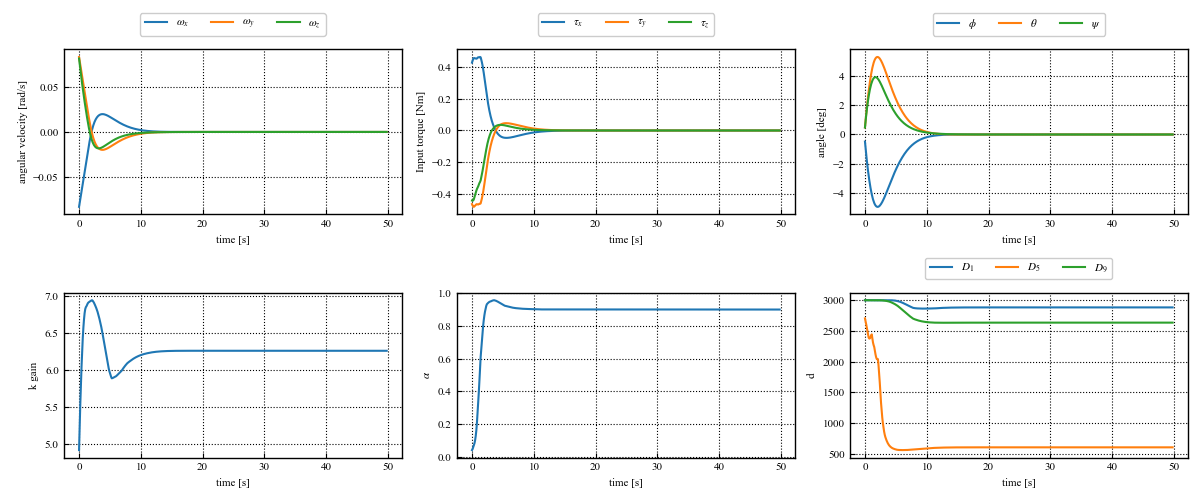
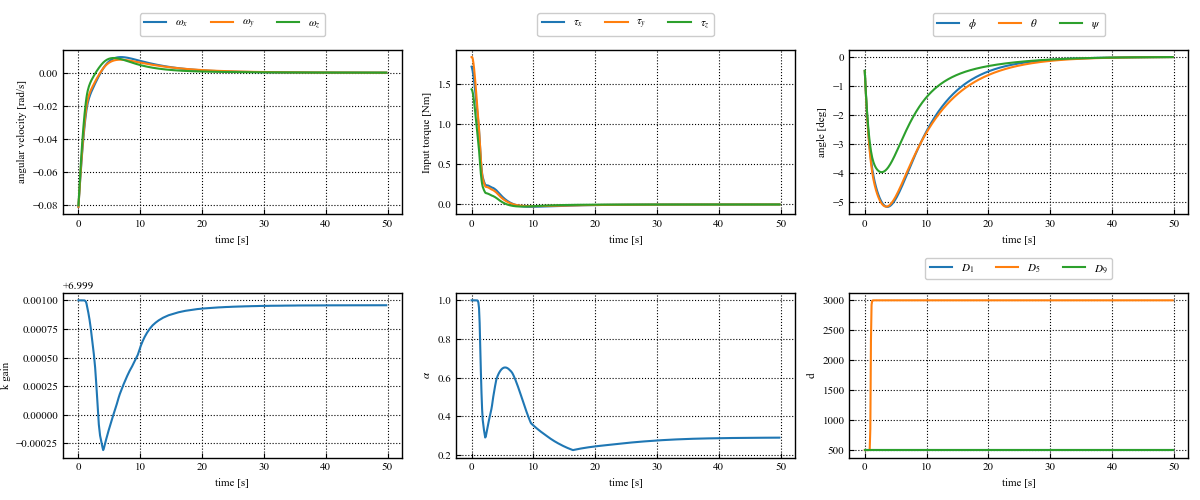
UPDATE: change reward

diff --git a/td3/environment.py b/td3/environment.py
@@ -280,17 +280,17 @@ class SatelliteContinuousEnv(gym.Env):
             self.r4 = self.action_rate_weight*(action_delta@action_delta)/self.dt
             reward = -(self.r1 + self.r2 + self.r3 + self.r4) 
             if max(abs(action)) > 0.5:
-                reward += -25 
+                reward += -100 
 
         elif self.steps_beyond_done is None:
             # epsiode just ended
             self.steps_beyond_done = 0
-            if bool(done_1):
+            if bool(done_3):
                 self.r1 = 0
                 self.r2 = 0
                 self.r3 = 0
                 self.r4 = 0
-                reward = -1
+                reward = 50
             else:
                 self.r1 = self.q_weight*((1-qe_new[0])**2+ qe_new[1:]@qe_new[1:])
                 self.r2 = self.w_weight*omega_new@omega_new
@@ -313,7 +313,7 @@ class SatelliteContinuousEnv(gym.Env):
         self.inertia = np.array([[2.683, 0.0, 0.0], \
                                 [0.0, 2.683, 0.0], \
                                 [0.0, 0.0, 1.897]])
-        self.multi = np.random.randint(100,self.max_multi*100)/100
+        self.multi = 10#np.random.randint(100,self.max_multi*100)/100
         self.tg_inertia = self.inertia*self.multi
         self.est_th = self.inertia.flatten()*self.multi/25#np.diag(self.inertia)
         # self.est_th = (self.multi*np.diag(self.inertia))/((self.max_multi+1)*np.diag(self.inertia))
